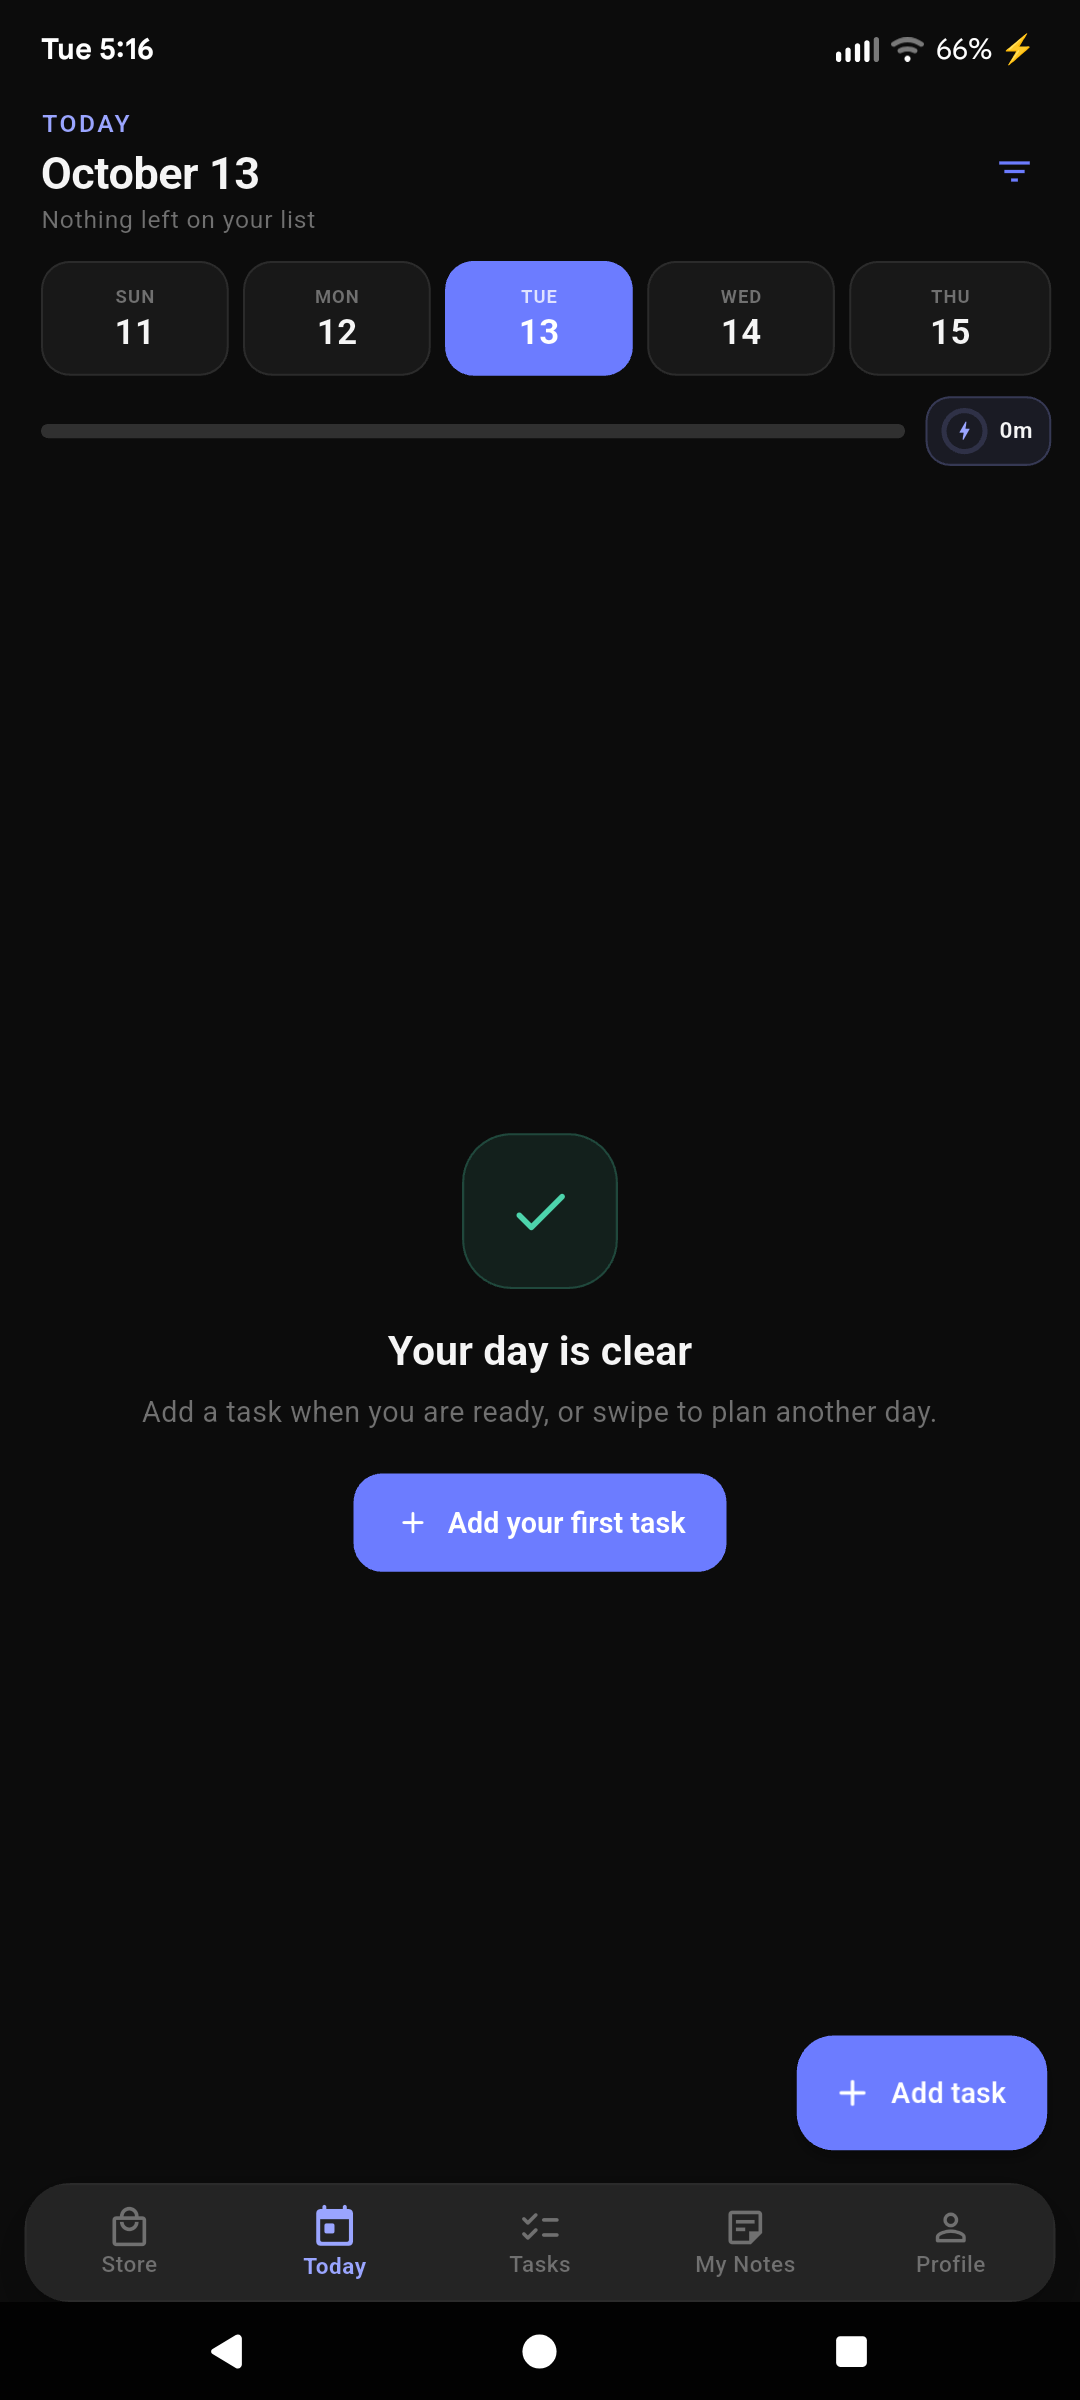
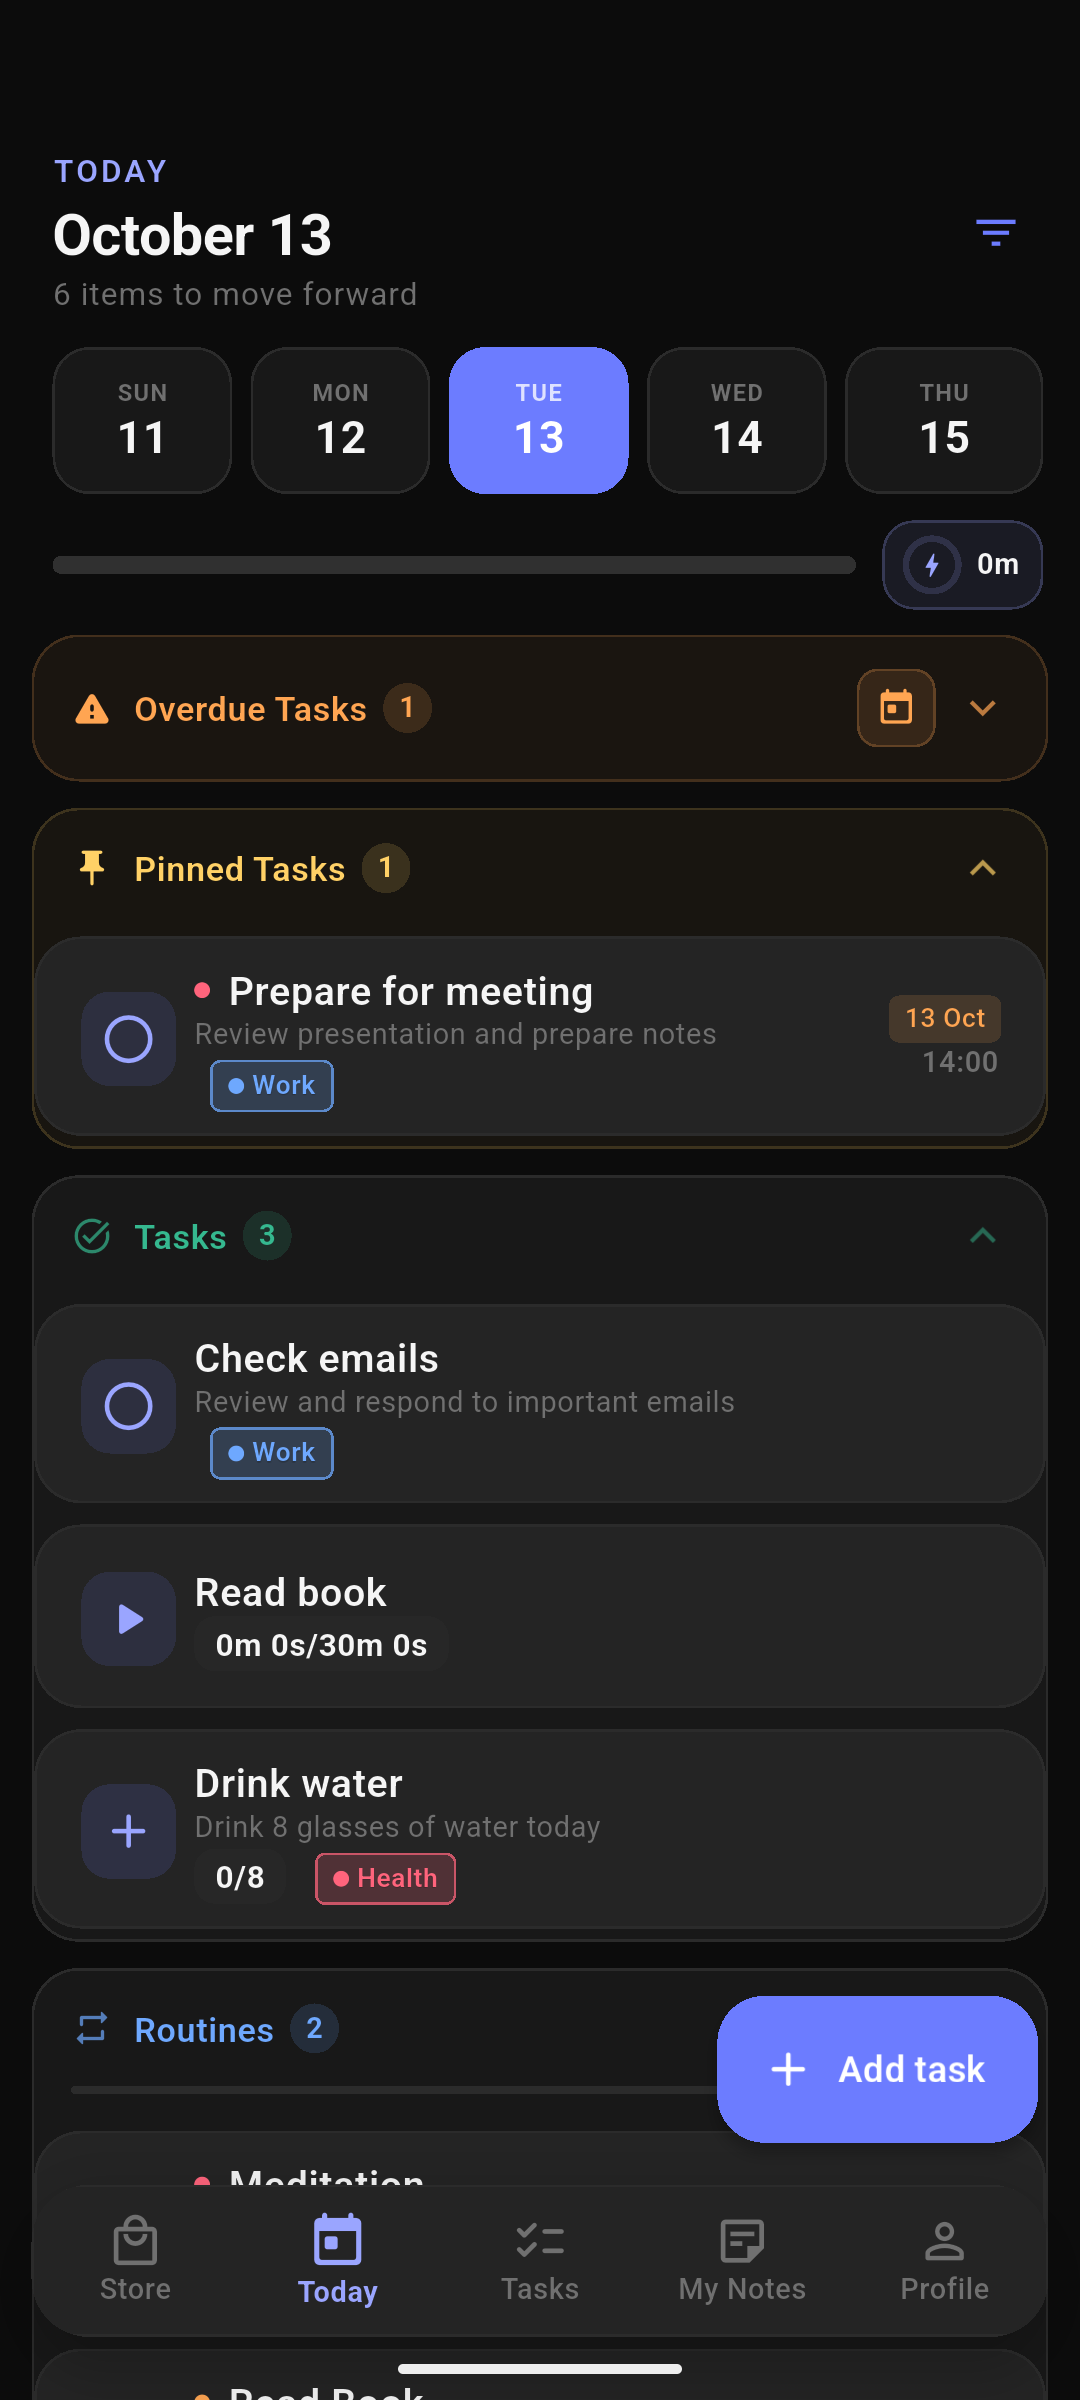
docs: refresh Android emulator screenshots

diff --git a/README.md b/README.md
@@ -13,7 +13,7 @@ Plan tasks, build routines, and see your progress in one focused workspace.
 
 </div>
 
-![NextLevel today view with an empty task list and a clear next step](docs/screenshots/nextlevel-today.png)
+![NextLevel today view with sample tasks, a pinned task, and routines](docs/screenshots/nextlevel-today.png)
 
 ## Turn plans into a routine
 
